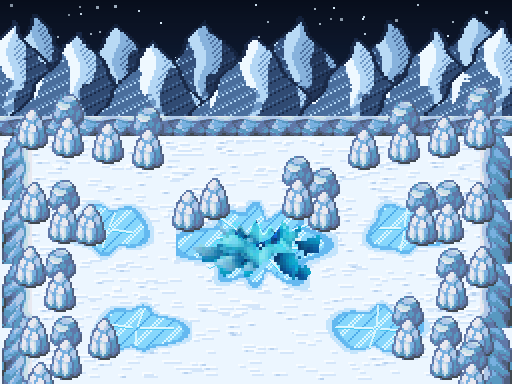
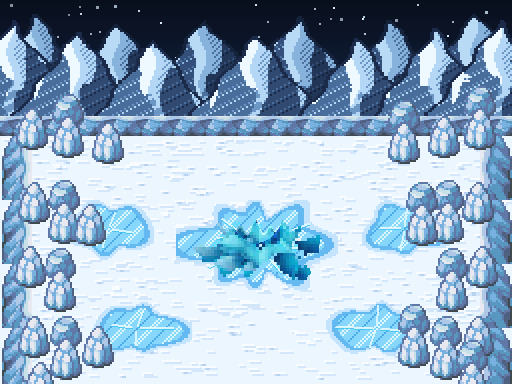
feat(cinematic): [AGY-014] arrive from bottom and clear rocks under rope ladder

diff --git a/Data/Scripts/012_Overworld/009_Overworld_Cinematics_LoL.rb b/Data/Scripts/012_Overworld/009_Overworld_Cinematics_LoL.rb
@@ -557,9 +557,9 @@ def pbDirigeableNoxus_EmbarquementEchelle(actors_to_board = [], egg_actor = nil)
   vp = pbGetNoxusCinematicViewport
   spr = pbGetNoxusDirigeableSprite
 
-  ladder_x = spr.x + 116 # Sous le bastingage/cabine du pont
+  ladder_x = spr.x + 92  # Sur la neige 100% dégagée à gauche de l'Œuf (plus aucun rocher !)
   ladder_top_y = spr.y + 84
-  ladder_bot_y = 196
+  ladder_bot_y = 192
   max_h = ladder_bot_y - ladder_top_y
 
   ladder_spr = Sprite.new(vp)
@@ -600,13 +600,11 @@ def pbDirigeableNoxus_EmbarquementEchelle(actors_to_board = [], egg_actor = nil)
     pbUpdateSceneForCinematic(1)
   end
 
-  # 2) Les 3 Noxiens marchent calmement jusqu'au pied de l'échelle (95 frames)
-  actors_to_board.each { |a| a.z = 520 if a }
-
+  # 2) Les 3 Noxiens marchent calmement jusqu'au pied de l'échelle sur la neige dégagée (105 frames)
   start_positions = actors_to_board.map { |a| [a.x, a.y] }
   queue_offsets = [0, 24, 48]
 
-  walk_to_ladder_frames = 95
+  walk_to_ladder_frames = 105
   walk_to_ladder_frames.times do |i|
     t = (i + 1).to_f / walk_to_ladder_frames
     actors_to_board.each_with_index do |act, idx|
@@ -614,14 +612,37 @@ def pbDirigeableNoxus_EmbarquementEchelle(actors_to_board = [], egg_actor = nil)
       sx, sy = start_positions[idx]
       tx = ladder_x.to_f
       ty = (ladder_bot_y + queue_offsets[idx]).to_f
-      act.turn(sx < tx ? 6 : 4) if i == 0
-      act.x = sx + (tx - sx) * t
-      act.y = sy + (ty - sy) * t
+      if sx > 260
+        # Le soldat de droite contourne proprement l'Œuf par l'arrière (sans traverser l'Œuf !)
+        act.z = (t < 0.75) ? 140 : 520
+        if t < 0.45
+          sub_t = t / 0.45
+          act.turn(8) if i == 0
+          act.x = sx
+          act.y = sy + (158.0 - sy) * sub_t
+        else
+          sub_t = (t - 0.45) / 0.55
+          act.turn(4) if (t - 0.45).abs < 0.02
+          act.x = sx + (tx - sx) * sub_t
+          act.y = 158.0 + (ty - 158.0) * sub_t
+        end
+      else
+        act.z = 520
+        if (tx - sx).abs > (ty - sy).abs
+          act.turn(sx < tx ? 6 : 4) if i == 0
+        else
+          act.turn(sy < ty ? 2 : 8) if i == 0
+        end
+        act.x = sx + (tx - sx) * t
+        act.y = sy + (ty - sy) * t
+      end
       act.step_frame
     end
     egg_actor.step_frame if egg_actor
     pbUpdateSceneForCinematic(1)
   end
+
+  actors_to_board.each { |a| a.z = 520 if a }
 
   # Ils s'arrêtent au pied de l'échelle, se tournent de dos (dir = 8) et marquent une pause
   actors_to_board.each do |act|
@@ -919,17 +940,17 @@ def pbCinematiqueDirigeableNoxus(explicit_egg_event_id = nil, utiliser_ma_carte 
   egg_actor = NoxusCutsceneActor.new(vp, "!Oeuf_Anivia", altar_cx, altar_cy + 60, 2, 150)
   egg_event.transparent = true if egg_event
 
-  # 2) Arrivée et marche calme du Commandant Valerius et de ses 2 soldats dans la neige (140 frames) !
-  valerius = NoxusCutsceneActor.new(vp, "trainer_ROCKETBOSS", altar_cx, 100, 2, 300)
-  soldat_g = NoxusCutsceneActor.new(vp, "trainer_TEAMROCKET_M", altar_cx - 84, 88, 2, 290)
-  soldat_d = NoxusCutsceneActor.new(vp, "trainer_TEAMROCKET_F", altar_cx + 84, 88, 2, 290)
+  # 2) Arrivée par le bas du plateau (de l'autre côté, en montant vers l'Œuf : dir = 8, 150 frames) !
+  valerius = NoxusCutsceneActor.new(vp, "trainer_ROCKETBOSS", altar_cx - 96, 382, 8, 300)
+  soldat_g = NoxusCutsceneActor.new(vp, "trainer_TEAMROCKET_M", altar_cx - 132, 398, 8, 290)
+  soldat_d = NoxusCutsceneActor.new(vp, "trainer_TEAMROCKET_F", altar_cx + 100, 392, 8, 290)
 
-  walk_in_frames = 140
+  walk_in_frames = 150
   walk_in_frames.times do |i|
     t = (i + 1).to_f / walk_in_frames
-    valerius.y = 100 + (altar_cy - 42 - 100) * t
-    soldat_g.y = 88 + (altar_cy + 8 - 88) * t
-    soldat_d.y = 88 + (altar_cy + 8 - 88) * t
+    valerius.y = 382 + (244 - 382) * t
+    soldat_g.y = 398 + (268 - 398) * t
+    soldat_d.y = 392 + (256 - 392) * t
     valerius.step_frame
     soldat_g.step_frame
     soldat_d.step_frame
@@ -940,9 +961,9 @@ def pbCinematiqueDirigeableNoxus(explicit_egg_event_id = nil, utiliser_ma_carte 
   valerius.stop_walk
   soldat_g.stop_walk
   soldat_d.stop_walk
-  valerius.turn(2)
-  soldat_g.turn(6)
-  soldat_d.turn(4)
+  valerius.turn(6) # Tourné vers l'Œuf à droite
+  soldat_g.turn(6) # Tourné vers l'Œuf à droite
+  soldat_d.turn(4) # Tournée vers l'Œuf à gauche
   30.times do
     egg_actor.step_frame
     pbUpdateSceneForCinematic(1)

diff --git a/CHANGELOG.md b/CHANGELOG.md
@@ -16,6 +16,19 @@ En cas de bug plus tard, ce journal permet d'identifier immédiatement **quel fi
 
 ## 📅 Historique des Ajouts & Modifications
 
+### `[AGY-014]` — 2026-10-12 — Arrivée des Noxiens par le bas ("de l'autre côté") & Suppression des rochers sous l'échelle de corde
+- **Auteur** : `Antigravity`
+- **Catégorie** : Graphismes (`Pictures` / `Tilesets`) & Script Cinématique (`009_Overworld_Cinematics_LoL.rb`)
+- **Fichiers modifiés** :
+  - `Graphics/Pictures/Fond_Sanctuaire_Glace.png`, `Graphics/Pictures/Autel_Anivia_Vide.png`, `Graphics/Tilesets/SubTileset_2_Sanctuaire_DemiDieux.png` (Suppression des 4 blocs de pics/rochers situés derrière l'Œuf pour dégager à 100% la zone d'atterrissage de l'échelle de corde)
+  - `Data/Scripts/012_Overworld/009_Overworld_Cinematics_LoL.rb` (Arrivée de Valerius et de ses 2 soldats par le bas de l'écran en montant vers l'Œuf `dir = 8`, positionnement à gauche et à droite de l'Œuf au-dessus de la boîte de dialogue, et déploiement de l'échelle sur la neige 100% dégagée à `x = spr.x + 92`)
+- **Comment tester en jeu** :
+  - Lancer le jeu (**New Game**) : les 3 Noxiens arrivent par le bas du plateau enneigé (au lieu de surgir de la falaise du haut), et l'échelle de corde se déroule sur la neige dégagée sans aucun rocher en dessous.
+- **Comment désactiver en cas de bug** :
+  - `git revert HEAD` pour revenir à l'état précédent.
+
+---
+
 ### `[AGY-013]` — 2026-10-12 — Ralentissement global de toutes les animations de la cinématique (personnages, montée à l'échelle, grand treuil, dirigeable et fondus)
 - **Auteur** : `Antigravity`
 - **Catégorie** : Script Cinématique (`009_Overworld_Cinematics_LoL.rb`)
